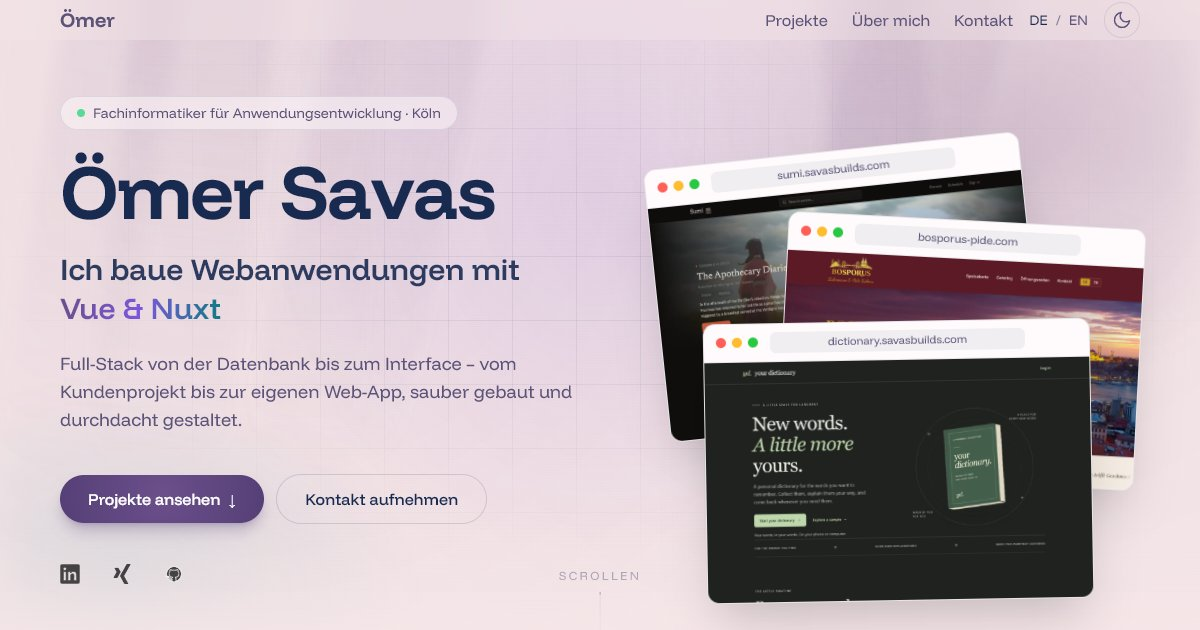
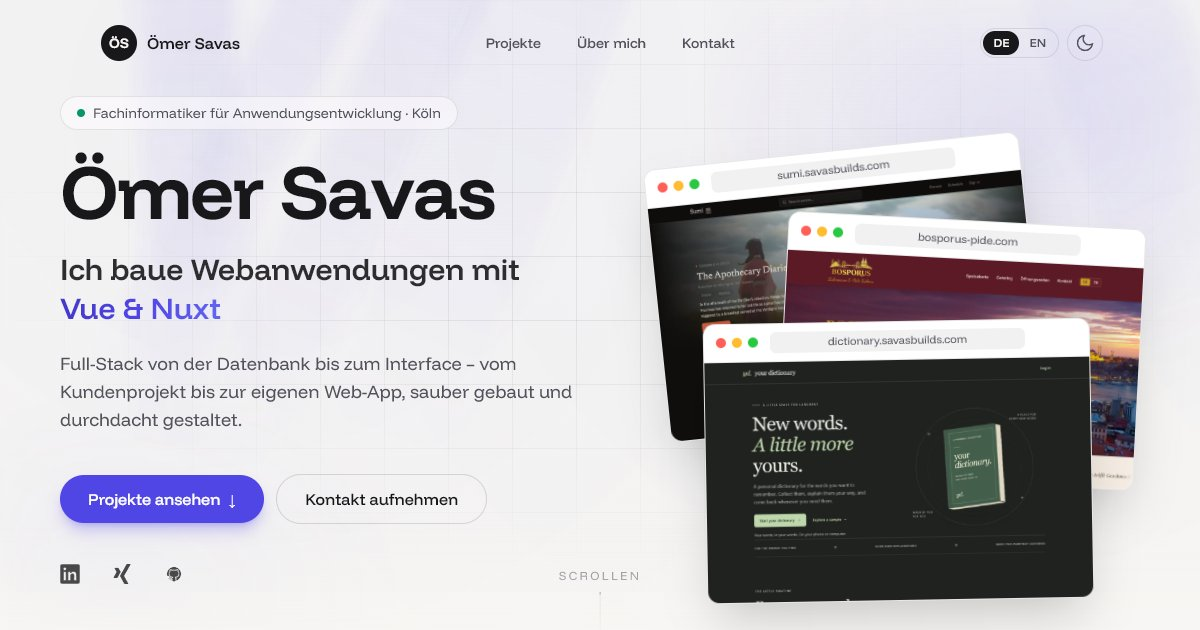
style: switch to paper & indigo colour palette
Neutral warm-white / near-black surfaces with a single indigo accent,
so the colourful project screenshots stand out instead of competing
with tinted backgrounds. Colour tokens are renamed to accent /
accent-2 so future palette changes touch one place. The CTA button is
now a solid accent, and the link preview image is regenerated.

Changed region(s): [[0.0308, 0.0, 0.9867, 0.7238], [0.0308, 0.754, 0.37, 0.8746], [0.0617, 0.6635, 0.1233, 0.6937]]

diff --git a/src/components/ProjectIllustrations.tsx b/src/components/ProjectIllustrations.tsx
@@ -15,9 +15,9 @@ export function OnboardingIllustration() {
     <div className="flex aspect-[16/10] w-full overflow-hidden rounded-xl border border-ink/10 bg-surface shadow-2xl shadow-black/20" aria-hidden>
       {/* Sidebar */}
       <div className="hidden w-1/4 flex-col gap-2 border-r border-ink/10 bg-ink/4 p-3 sm:flex">
-        <div className="mb-2 h-3 w-2/3 rounded bg-lavender/60" />
+        <div className="mb-2 h-3 w-2/3 rounded bg-accent/60" />
         {["w-3/4", "w-1/2", "w-2/3", "w-3/5"].map((w, i) => (
-          <div key={i} className={`h-2 rounded ${i === 1 ? "bg-lavender/50" : "bg-ink/12"} ${w}`} />
+          <div key={i} className={`h-2 rounded ${i === 1 ? "bg-accent/50" : "bg-ink/12"} ${w}`} />
         ))}
       </div>
 
@@ -27,7 +27,7 @@ export function OnboardingIllustration() {
           <div className="h-3 w-1/3 rounded bg-ink/25" />
           <div className="flex gap-1.5">
             <span className="rounded-full bg-mint/20 px-2 py-0.5 text-[9px] font-semibold text-ink/70">HR</span>
-            <span className="rounded-full bg-lavender/25 px-2 py-0.5 text-[9px] font-semibold text-ink/70">Admin</span>
+            <span className="rounded-full bg-accent/25 px-2 py-0.5 text-[9px] font-semibold text-ink/70">Admin</span>
           </div>
         </div>
 
@@ -38,7 +38,7 @@ export function OnboardingIllustration() {
             <span>66%</span>
           </div>
           <div className="h-1.5 rounded-full bg-ink/10">
-            <div className="h-full w-2/3 rounded-full bg-linear-to-r from-lavender to-aqua" />
+            <div className="h-full w-2/3 rounded-full bg-linear-to-r from-accent to-accent-2" />
           </div>
         </div>
 
@@ -46,7 +46,7 @@ export function OnboardingIllustration() {
         <div className="flex flex-col gap-2">
           {docs.map((doc) => (
             <div key={doc.name} className="flex items-center gap-2 rounded-lg border border-ink/8 bg-primary/40 px-2.5 py-2">
-              <div className="grid size-5 shrink-0 place-items-center rounded bg-lavender/20 text-[9px] text-lavender">▤</div>
+              <div className="grid size-5 shrink-0 place-items-center rounded bg-accent/20 text-[9px] text-accent">▤</div>
               <span className="flex-1 truncate text-[10px] text-ink/80">{doc.name}</span>
               <span
                 className={`grid size-4 place-items-center rounded-full text-[8px] ${
@@ -78,7 +78,7 @@ function Key({ children, wide = false }: { children: string; wide?: boolean }) {
 export function SwitchAudioIllustration() {
   return (
     <div
-      className="relative flex aspect-[16/10] w-full flex-col items-center justify-center gap-8 overflow-hidden rounded-xl border border-ink/10 bg-linear-to-br from-storm to-indigo shadow-2xl shadow-black/20"
+      className="relative flex aspect-[16/10] w-full flex-col items-center justify-center gap-8 overflow-hidden rounded-xl border border-ink/10 bg-linear-to-br from-surface to-primary shadow-2xl shadow-black/20"
       aria-hidden
     >
       <div className="hero-grid absolute inset-0 opacity-60" />
@@ -94,7 +94,7 @@ export function SwitchAudioIllustration() {
       {/* Windows-style toast */}
       <div className="relative w-64 rounded-lg border border-ink/10 bg-surface/90 p-3 shadow-xl backdrop-blur md:w-72">
         <div className="flex items-center gap-3">
-          <div className="grid size-8 shrink-0 place-items-center rounded-md bg-lavender/20 text-base">🔊</div>
+          <div className="grid size-8 shrink-0 place-items-center rounded-md bg-accent/20 text-base">🔊</div>
           <div className="min-w-0">
             <p className="text-[11px] font-semibold text-ink">Switch Audio</p>
             <p className="truncate text-[11px] text-muted">Headphones (USB Audio) ✓</p>

diff --git a/src/index.css b/src/index.css
@@ -26,47 +26,42 @@
     U+A720-A7FF;
 }
 
+/*
+ * Palette "paper & indigo": neutral surfaces with a single indigo accent,
+ * so the colourful project screenshots are what stands out.
+ * Dark values live in @theme (default), light values override on html.light.
+ */
 @theme {
-  --color-primary: #0d1b2a;
-  --color-surface: #1b263b;
-  --color-ink: #e0e1dd;
-  --color-muted: #778da9;
-  --color-subtle: #778da9;
-  --color-on-accent: #e0e1dd;
-  --color-midnight: #0d1b2a;
-  --color-navy: #1b263b;
-  --color-indigo: #0d1b2a;
-  --color-storm: #1b263b;
-  --color-aqua: #778da9;
-  --color-mint: #57db96;
-  --color-royal: #415a77;
-  --color-lavender: #778da9;
-  --color-fuchsia: #ca2f8c;
-  --color-orange: #cc6033;
-  --color-sand: #d6995c;
-  --color-coral: #ea4884;
+  --color-primary: #0a0a0c;
+  --color-surface: #151519;
+  --color-ink: #f4f4f5;
+  --color-muted: #a1a1aa;
+  --color-subtle: #71717a;
+  --color-accent: #818cf8;
+  --color-accent-2: #7dd3fc;
+  --color-on-accent: #0a0a0c;
+  --color-mint: #34d399;
+  --color-sand: #fbbf24;
 }
 
 :root {
-  --card-bg: rgb(27 38 59 / 0.55);
+  --card-bg: rgb(21 21 25 / 0.72);
 }
 
 html.light {
-  --color-primary: #f5e6e8;
-  --color-surface: #fffafb;
-  --color-ink: #192a51;
-  --color-muted: #5b5378;
-  --color-subtle: #857e9c;
+  --color-primary: #f7f6f3;
+  --color-surface: #ffffff;
+  --color-ink: #18181b;
+  --color-muted: #52525b;
+  --color-subtle: #71717a;
+  --color-accent: #4f46e5;
+  --color-accent-2: #0284c7;
   --color-on-accent: #ffffff;
-  --color-midnight: #f5e6e8;
-  --color-navy: #d5c6e0;
-  --color-indigo: #d5c6e0;
-  --color-storm: #e9dcef;
-  --color-aqua: #0f7b83;
-  --color-royal: #553f77;
-  --color-lavender: #6b4f8a;
+  --color-mint: #059669;
+  --color-sand: #d97706;
 
-  --card-bg: rgb(255 255 255 / 0.6);}
+  --card-bg: rgb(255 255 255 / 0.78);
+}
 
 html {
   background-color: var(--color-primary);
@@ -105,37 +100,26 @@ section[id] {
   background-color: var(--card-bg);
 }
 
-/* Same idea as light: two close jewel tones, so the radial is a soft sheen not a hotspot. */
+/* Solid accent button */
 .cta-pill {
-  background-image: radial-gradient(
-    circle at 50% 40%,
-    color-mix(in srgb, var(--color-royal) 85%, var(--color-muted)),
-    var(--color-royal)
-  );
+  background-color: var(--color-accent);
 }
 
-html.light .cta-pill {
-  background-image: radial-gradient(
-    circle at 50% 40%,
-    var(--color-lavender),
-    var(--color-royal)
-  );
-}
 /* ---------- Hero ---------- */
 :root {
-  --grad-from: #e0e1dd;
-  --grad-via: #a9bcd4;
-  --grad-to: #778da9;
-  --aurora-a: rgb(65 90 119 / 0.45);
-  --aurora-b: rgb(87 219 150 / 0.08);
+  --grad-from: #c7d2fe;
+  --grad-via: #a5b4fc;
+  --grad-to: #818cf8;
+  --aurora-a: rgb(129 140 248 / 0.14);
+  --aurora-b: rgb(129 140 248 / 0.05);
 }
 
 html.light {
-  --grad-from: #6b4f8a;
-  --grad-via: #7c57db;
-  --grad-to: #0f7b83;
-  --aurora-a: rgb(150 122 161 / 0.35);
-  --aurora-b: rgb(15 123 131 / 0.12);
+  --grad-from: #4338ca;
+  --grad-via: #4f46e5;
+  --grad-to: #6366f1;
+  --aurora-a: rgb(79 70 229 / 0.10);
+  --aurora-b: rgb(79 70 229 / 0.04);
 }
 
 .text-gradient {

diff --git a/src/sections/Contact.tsx b/src/sections/Contact.tsx
@@ -43,7 +43,7 @@ export default function Contact() {
         <div className="hero-grid pointer-events-none absolute inset-0 opacity-70" aria-hidden />
 
         <div className="relative mx-auto max-w-2xl">
-          <p className="mb-3 text-sm font-medium uppercase tracking-[0.2em] text-lavender">
+          <p className="mb-3 text-sm font-medium uppercase tracking-[0.2em] text-accent">
             {t("contact.eyebrow")}
           </p>
           <h2 className="text-4xl font-bold tracking-tight text-balance md:text-6xl">
@@ -59,7 +59,7 @@ export default function Contact() {
               <>
                 <a
                   href={`mailto:${CONTACT_EMAIL}`}
-                  className="cta-pill rounded-full px-7 py-3 font-medium text-on-accent shadow-lg shadow-royal/30 transition hover:-translate-y-0.5 hover:brightness-110"
+                  className="cta-pill rounded-full px-7 py-3 font-medium text-on-accent shadow-lg shadow-accent/30 transition hover:-translate-y-0.5 hover:brightness-110"
                 >
                   {t("contact.email")}
                 </a>
@@ -80,7 +80,7 @@ export default function Contact() {
                 rel="noopener noreferrer"
                 className={
                   !CONTACT_EMAIL && i === 0
-                    ? "cta-pill inline-flex items-center gap-2 rounded-full px-7 py-3 font-medium text-on-accent shadow-lg shadow-royal/30 transition hover:-translate-y-0.5 hover:brightness-110"
+                    ? "cta-pill inline-flex items-center gap-2 rounded-full px-7 py-3 font-medium text-on-accent shadow-lg shadow-accent/30 transition hover:-translate-y-0.5 hover:brightness-110"
                     : "inline-flex items-center gap-2 rounded-full border border-ink/15 px-6 py-3 font-medium text-ink transition hover:-translate-y-0.5 hover:border-ink/40 hover:bg-ink/5"
                 }
               >
@@ -88,7 +88,7 @@ export default function Contact() {
                   src={asset(`assets/logos/${icon}`)}
                   alt=""
                   aria-hidden
-                  className={`size-4 ${!CONTACT_EMAIL && i === 0 ? "" : "light:invert"}`}
+                  className={`size-4 ${!CONTACT_EMAIL && i === 0 ? "invert light:invert-0" : "light:invert"}`}
                 />
                 {label}
               </a>

diff --git a/src/sections/Projects.tsx b/src/sections/Projects.tsx
@@ -16,11 +16,11 @@ const EASE = [0.22, 1, 0.36, 1] as const;
 
 const STATUS_STYLE: Record<Project["status"], string> = {
   live: "bg-mint/15 text-ink",
-  client: "bg-aqua/15 text-ink",
+  client: "bg-accent-2/15 text-ink",
   concept: "bg-ink/8 text-muted",
   wip: "bg-sand/20 text-ink",
-  caseStudy: "bg-lavender/20 text-ink",
-  openSource: "bg-royal/20 text-ink",
+  caseStudy: "bg-ink/8 text-ink",
+  openSource: "bg-accent/12 text-ink",
 };
 
 function hostname(url: string) {
@@ -137,7 +137,7 @@ function FeatureCard({ project, index }: { project: Project; index: number }) {
           <ul className="flex flex-col gap-2 text-sm text-ink/85">
             {text.highlights.map((h) => (
               <li key={h} className="flex gap-2.5">
-                <span className="mt-2 size-1.5 shrink-0 rounded-full bg-lavender" aria-hidden />
+                <span className="mt-2 size-1.5 shrink-0 rounded-full bg-accent" aria-hidden />
                 {h}
               </li>
             ))}
@@ -198,7 +198,7 @@ export default function Projects() {
           className="flex flex-col gap-6 md:flex-row md:items-end md:justify-between"
         >
           <div className="max-w-2xl">
-            <p className="mb-3 text-sm font-medium uppercase tracking-[0.2em] text-lavender">
+            <p className="mb-3 text-sm font-medium uppercase tracking-[0.2em] text-accent">
               {t("projects.eyebrow")}
             </p>
             <h2 className="text-4xl font-bold tracking-tight md:text-6xl">

diff --git a/src/sections/About.tsx b/src/sections/About.tsx
@@ -107,7 +107,7 @@ export default function About() {
       <div className="relative z-10 grid gap-12 lg:grid-cols-[1.1fr_1fr] lg:gap-16">
         {/* Bio */}
         <motion.div {...reveal()}>
-          <p className="mb-3 text-sm font-medium uppercase tracking-[0.2em] text-lavender">
+          <p className="mb-3 text-sm font-medium uppercase tracking-[0.2em] text-accent">
             {t("about.eyebrow")}
           </p>
           <h2 className="text-4xl font-bold tracking-tight text-pretty md:text-5xl">
@@ -165,7 +165,7 @@ export default function About() {
               <span className="grid size-10 place-items-center rounded-full bg-ink/6 text-ink" aria-hidden>
                 {extra.icon}
               </span>
-              <p className="text-sm font-medium uppercase tracking-[0.2em] text-lavender">
+              <p className="text-sm font-medium uppercase tracking-[0.2em] text-accent">
                 {t(`about.extras.${extra.key}.eyebrow`)}
               </p>
             </div>
@@ -183,7 +183,7 @@ export default function About() {
       </div>
 
       <motion.div {...reveal()} className="relative z-10 mt-16">
-        <h3 className="text-sm font-medium uppercase tracking-[0.2em] text-lavender">
+        <h3 className="text-sm font-medium uppercase tracking-[0.2em] text-accent">
           {t("about.techStackTitle")}
         </h3>
         <div className="mt-6 grid gap-6 sm:grid-cols-2 lg:grid-cols-4">

diff --git a/src/sections/Hero.tsx b/src/sections/Hero.tsx
@@ -15,8 +15,8 @@ import { useTheme } from "../theme";
 import { asset } from "../lib/utils";
 
 const RAY_COLOR = {
-  dark: "rgba(119, 141, 169, 0.16)",
-  light: "rgba(150, 122, 161, 0.30)",
+  dark: "rgba(129, 140, 248, 0.10)",
+  light: "rgba(79, 70, 229, 0.12)",
 } as const;
 
 const NAME = "Ömer Savas";
@@ -244,7 +244,7 @@ export default function Hero() {
           >
             <a
               href="#projects"
-              className="cta-pill group inline-flex items-center gap-2 rounded-full px-7 py-3 font-medium text-on-accent shadow-lg shadow-royal/30 transition hover:-translate-y-0.5 hover:brightness-110"
+              className="cta-pill group inline-flex items-center gap-2 rounded-full px-7 py-3 font-medium text-on-accent shadow-lg shadow-accent/30 transition hover:-translate-y-0.5 hover:brightness-110"
             >
               {t("hero.ctaProjects")}
               <span className="transition-transform group-hover:translate-y-0.5" aria-hidden>

diff --git a/index.html b/index.html
@@ -11,7 +11,7 @@
       content="Persönliches, nicht-kommerzielles Portfolio-Projekt von Ömer Savas. Eigene Programmierprojekte und Technologien: TypeScript, Vue.js/Nuxt, React/Next.js, Node.js, PostgreSQL und Docker."
     />
     <meta name="author" content="Ömer Savas" />
-    <meta name="theme-color" content="#f5e6e8" />
+    <meta name="theme-color" content="#f7f6f3" />
     <link rel="canonical" href="https://savasbuilds.com/" />
 
     <meta property="og:type" content="website" />
@@ -64,7 +64,7 @@
           if (meta) {
             meta.setAttribute(
               "content",
-              theme === "light" ? "#f5e6e8" : "#0d1b2a"
+              theme === "light" ? "#f7f6f3" : "#0a0a0c"
             );
           }
         } catch (e) {}

diff --git a/src/theme.tsx b/src/theme.tsx
@@ -19,8 +19,8 @@ type ThemeContextValue = {
 const STORAGE_KEY = 'portfolio-theme';
 
 const THEME_COLOR: Record<Theme, string> = {
-  dark: '#0d1b2a',
-  light: '#f5e6e8',
+  dark: '#0a0a0c',
+  light: '#f7f6f3',
 };
 
 const ThemeContext = createContext<ThemeContextValue | null>(null);

diff --git a/src/App.tsx b/src/App.tsx
@@ -61,7 +61,7 @@ function App() {
         className="fixed inset-0 z-0"
         quantity={90}
         ease={80}
-        color={theme === "light" ? "#967aa1" : "#415a77"}
+        color={theme === "light" ? "#a5a3c9" : "#3f3f6b"}
         refresh
       />
       <main>
